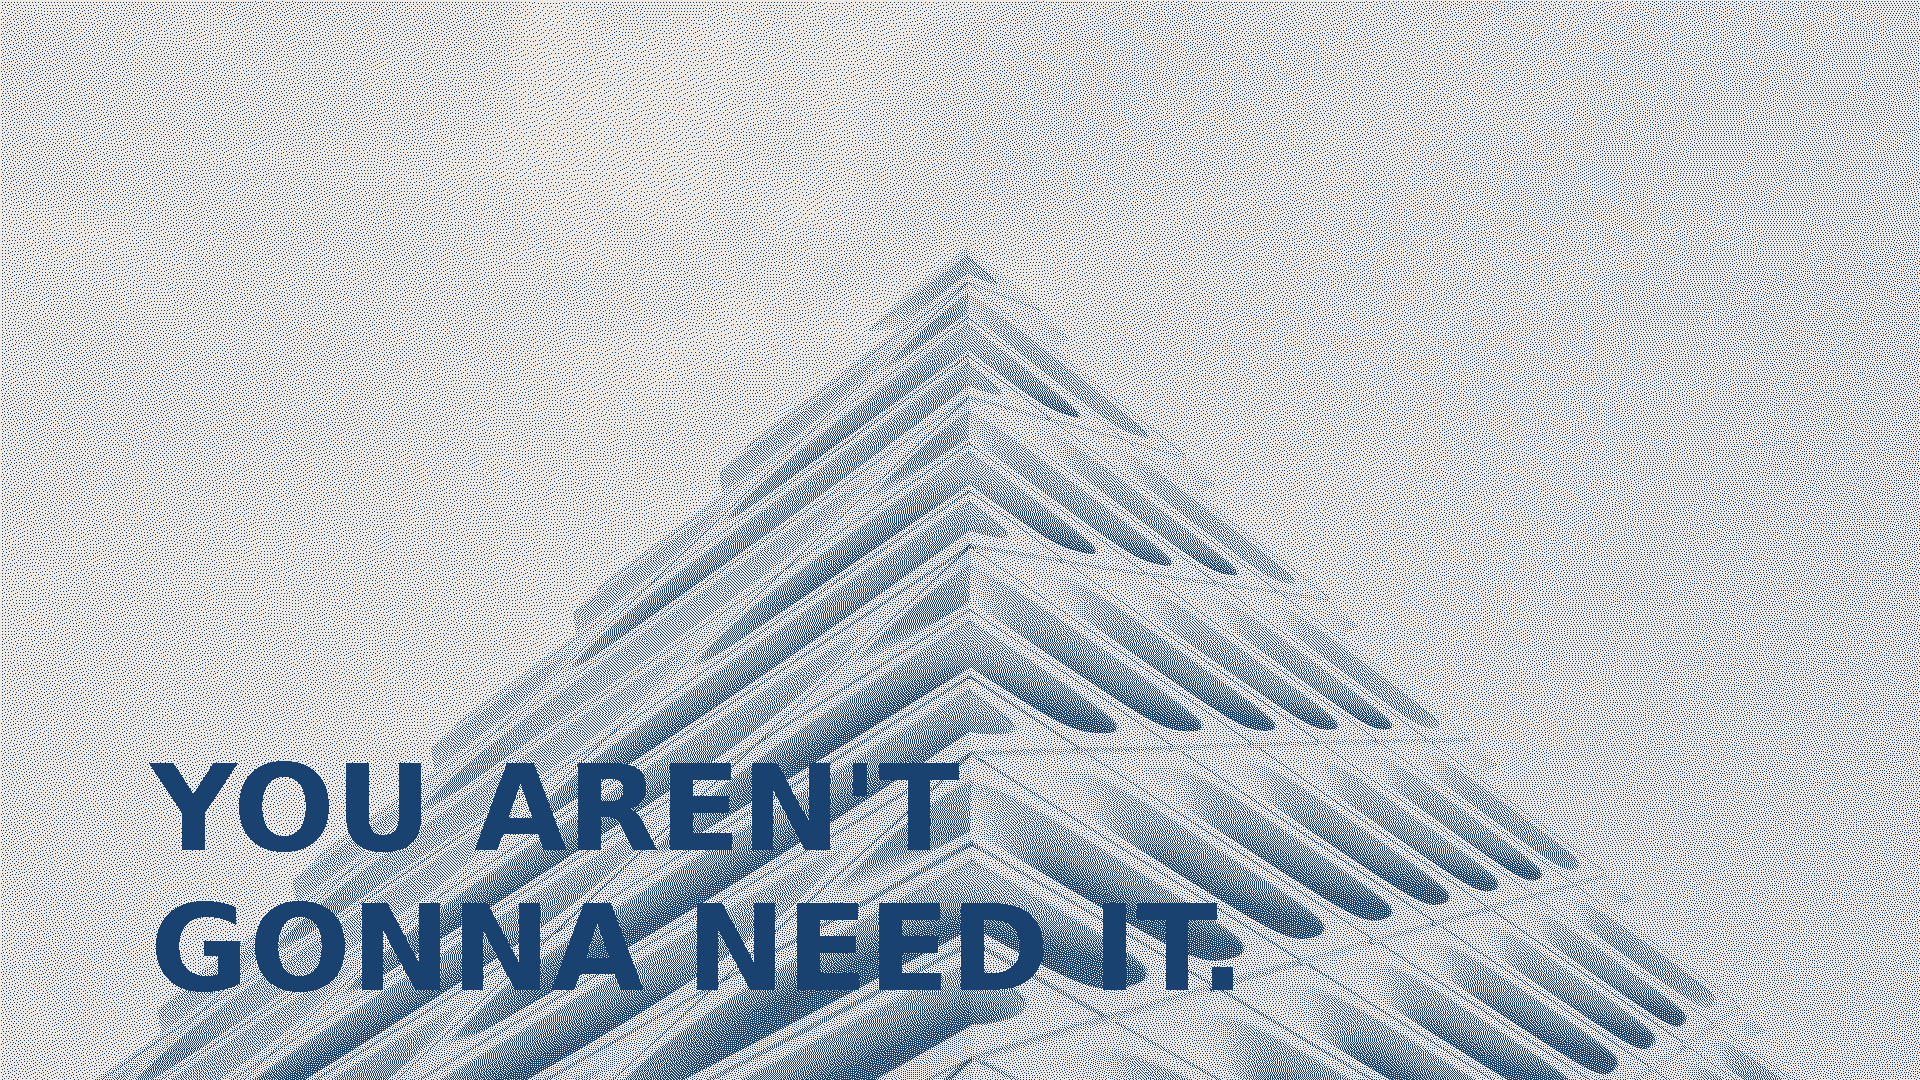
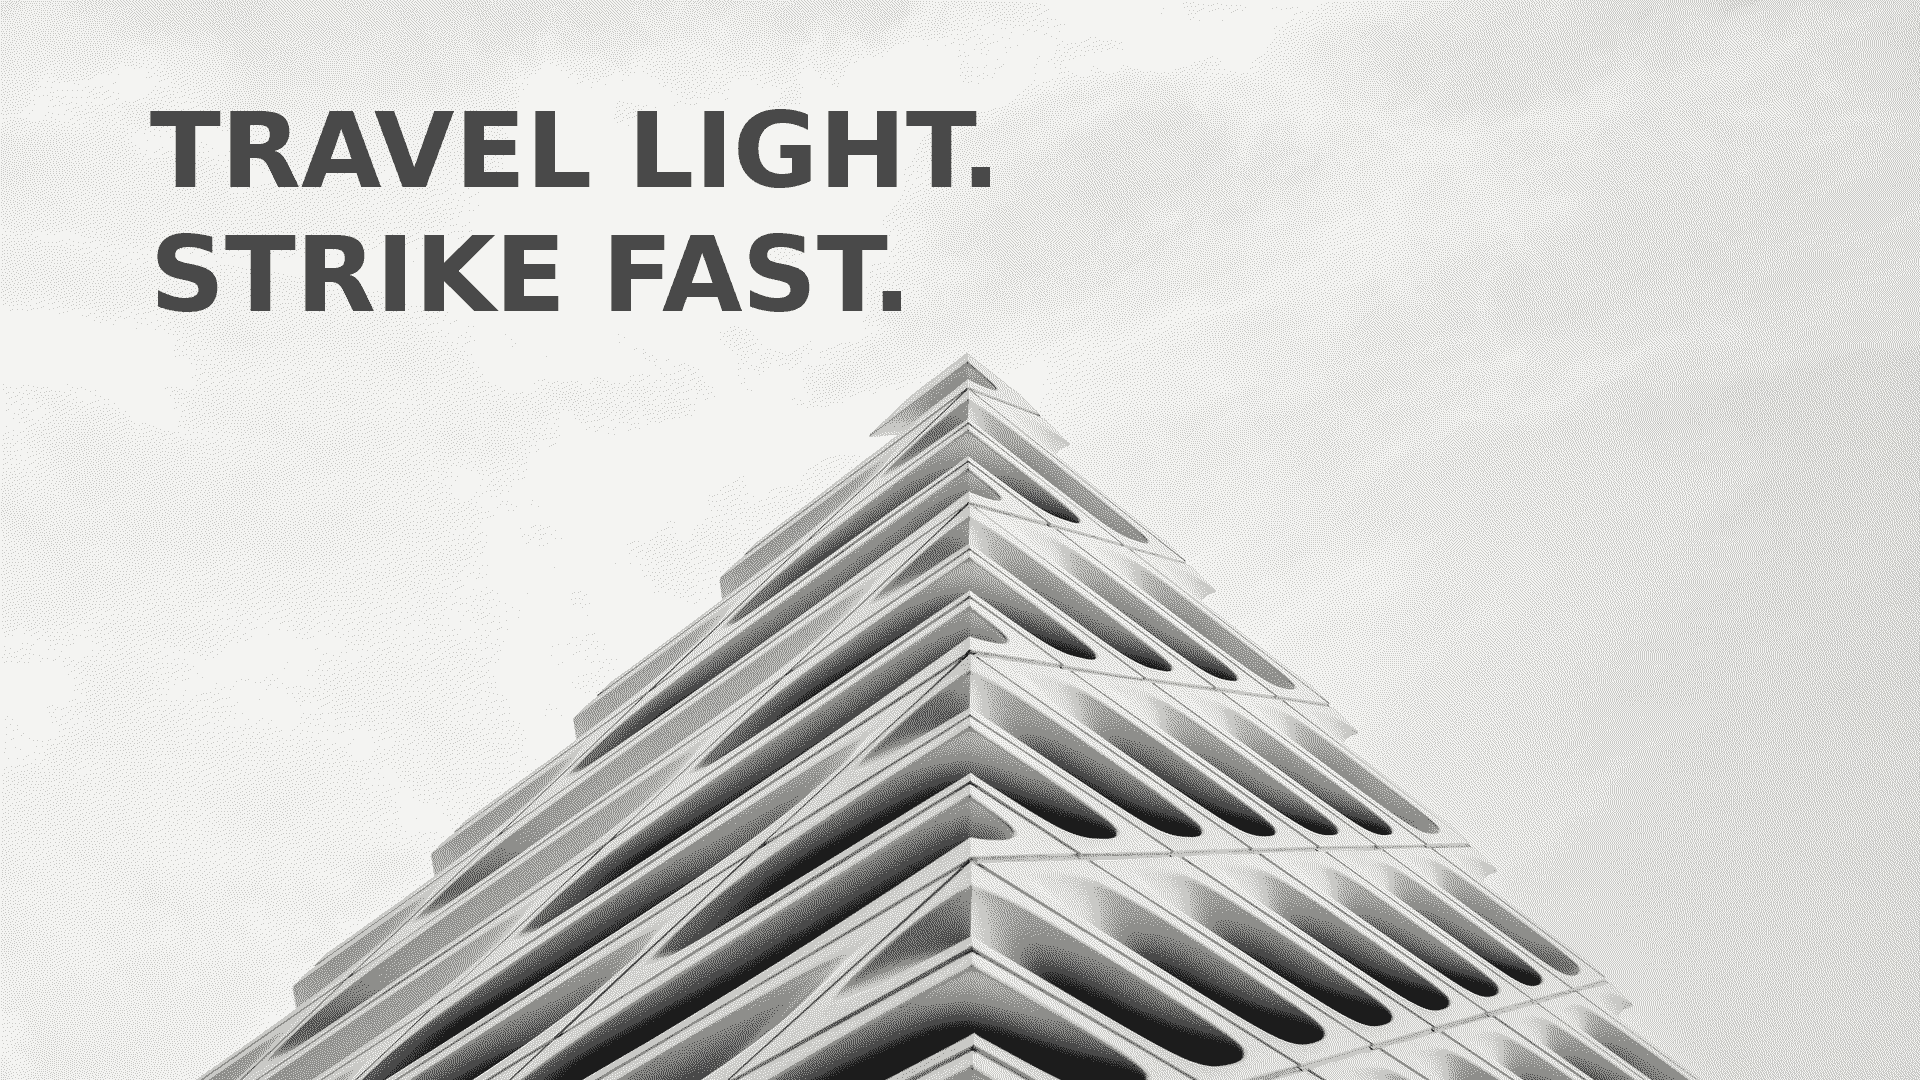
sidewinder

diff --git a/pkgs/deadeye/deadeye.c b/pkgs/deadeye/deadeye.c
@@ -19,7 +19,7 @@ static void run(A), end(A), quit(A), show(A), mv(A), cyc(A), fs(A);
 /* config */
 #define MOD SWC_MOD_LOGO
 #define SH SWC_MOD_SHIFT
-static unsigned BW = 3, BF = 0x3d6fa3, BU = 0x253e5b; /* DEADEYE_* overrides */
+static unsigned BW = 3, BF = 0xc9c9c6, BU = 0x494949; /* DEADEYE_* overrides */
 #define W(k, n) {MOD, k, show, {.i = n}}, {MOD | SH, k, mv, {.i = n}}
 static const K keys[] = {
 	{MOD, XKB_KEY_Return, run, {.s = "eval exec ${TERMINAL:-havoc}"}},

diff --git a/pkgs/hello/hello.c b/pkgs/hello/hello.c
@@ -1,2 +1,2 @@
 #include <unistd.h>
-int main(void) { return write(1, "hello from redemption\n", 22) != 22; }
+int main(void) { return write(1, "hello from sidewinder\n", 22) != 22; }

diff --git a/README.md b/README.md
@@ -1,4 +1,4 @@
-# redemption/linux
+# sidewinder/linux
 
 ```
     ___
@@ -22,7 +22,7 @@ no dynamic loader, no /lib, no /sbin. 1000% [gnu](https://www.gnu.org) free.
 
 it has only ever booted in [qemu](https://www.qemu.org).
 
-website, install guide and manual: https://redemption-linux.codeberg.page
+website, install guide and manual: https://sidewinder-linux.codeberg.page
 
 
 ## layout
@@ -30,8 +30,8 @@ website, install guide and manual: https://redemption-linux.codeberg.page
 ```
 pkgs/        one directory per package
 superlab     builds pkgs/ into repo/
-mkrootfs     builds redemption.tar.gz out of repo/
-mkiso        builds redemption.iso: the kernel is BOOTX64.EFI, the live system is inside it
+mkrootfs     builds sidewinder.tar.gz out of repo/
+mkiso        builds sidewinder.iso: the kernel is BOOTX64.EFI, the live system is inside it
 iso/         the live system's inittab, motd and boot script
 mksrc        collects the source of everything in repo/
 ```
